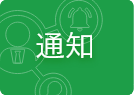
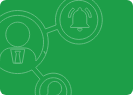
initial commit for Dashboard Settings revision
Summary: buttons responsivesness

Test Plan:
1. patch diff
2. open localhost/company/dashboard
3. Check dashboard settings widget

Reviewers: santos.ma

Reviewed By: santos.ma

Subscribers: gordo.jt

Maniphest Tasks: T34601

Differential Revision: https://phabricator.sprobe.ph/D25367

diff --git a/src/backend/resources/js/components/dashboardSettings.js b/src/backend/resources/js/components/dashboardSettings.js
@@ -12,36 +12,39 @@ const DashboardSettings =(props) => {
   if (typeof props.interActivePages != 'undefined') {
     showMoveButton = (props.interActivePages.includes(location.pathname)) ? 'group-hover:block' : ''
   }
+  const buttons = [
+    { label: '支払い方法', onClick: '', font: '3xl:text-4xl 2xl:text-3xl xl:text-2xl lg:text-lg md: text-md sm:text-md', url: '#', photo: imgMethPayment},
+    { label: 'サービスをキャンセル', onClick: '', font: '3xl:text-2xl 2xl:text-xl xl:text-lg lg:text-md md: text-sm sm:text-xs', url: '', photo: imgCancelService},
+    { label: '通知', onClick: '', font: '3xl:text-5xl 2xl:text-4xl xl:text-3xl lg:text-2xl md: text-xl sm:text-lg', url: '#', photo: imgNotice },
+    { label: 'サポート', onClick: props.showWidgets, font: '3xl:text-4xl 2xl:text-3xl xl:text-2xl lg:text-xl md: text-lg sm:text-md', url: '#', photo: imgSupport},
+  ]
+
   return(
     <div className="w-full h-full relative group">
       <div className={'absolute w-12 h-5 -top-4 px-1 pt-0.5 right-6 text-center text-gray-500 bg-white font-sans text-xxs leading-2 rounded-md border-gray-200 border-2 cursor-move hidden ' + showMoveButton}>Move</div>
-      <div className="relative flex flex-col items-center justify-center gap-4 rounded-lg border-2 border-gray-200 w-full h-full bg-white group pt-3">
-        <div className="component-header w-full h-4 pl-4">
+      <div className="relative flex flex-col items-center gap-3 rounded-lg border-2 border-gray-200 w-full h-full bg-white group pt-3">
+        <div className="w-full h-12 pl-4">
           <img className="inline" src={imgSettingsIcon}/>
           <span className="ml-2 p-0 inline text-green-600 font-bold ">設定</span>
           <img className= "float-right mr-4 hidden group-hover:block" src={Ellipsis} />
         </div>
-        <div className="justify-around w-full h-full overflow-hidden relative">
-          <div className="flex flex-wrap px-8 py-6 pb-4 h-full">
-            <div className="flex justify-center md:w-1/2 md:h-1/2 2xlg:px-1 sm:pr-2">
-              <img className= "p-0 rounded-l" src={imgMethPayment} style={{height : '80%'}} />
-            </div>
-            <div className="flex justify-center md:w-1/2 md:h-1/2 2xlg:px-1 sm:pl-2">
-              <img className= "p-0 rounded-l" src={imgCancelService} style={{height : '80%'}} />
-            </div>
-            <div className="flex justify-center md:w-1/2 md:h-1/2 2xlg:px-1 sm:pr-2">
-              <img className= "p-0 rounded-l" src={imgNotice} style={{height : '80%'}} />
-            </div>
-            <div className="cursor-pointer flex justify-center md:w-1/2 md:h-1/2 2xlg:px-1 sm:pl-2">
-              <img className= "p-0 rounded-l" src={imgSupport} style={{height : '80%'}} />
-            </div>
+        <div className=" w-full px-4 overflow-y-auto">
+          <div className="grid grid-cols-2 gap-4">
+            {
+              buttons.map((button, index) => {
+                return (
+                  <div key={index} onClick={button.onClick} className="cursor-pointer col-span-2 xl:col-span-1 h-36 bg-center bg-no-repeat bg-cover flex items-center justify-center rounded-lg" style={{ backgroundImage: `url("${button.photo}")` }}>
+                    <h3 className={'font-bold text-white ' + button.font }>{button.label}</h3>
+                  </div>
+                )
+              })
+            }
           </div>
         </div>
       </div>
     </div>
   )
 }
-
 
 export default DashboardSettings
 if (document.getElementById('dashboardSettings')){
